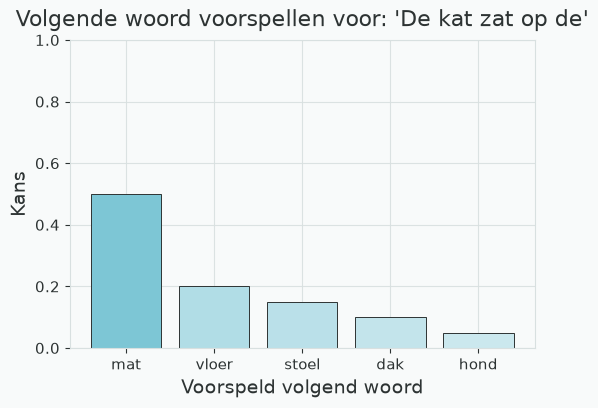
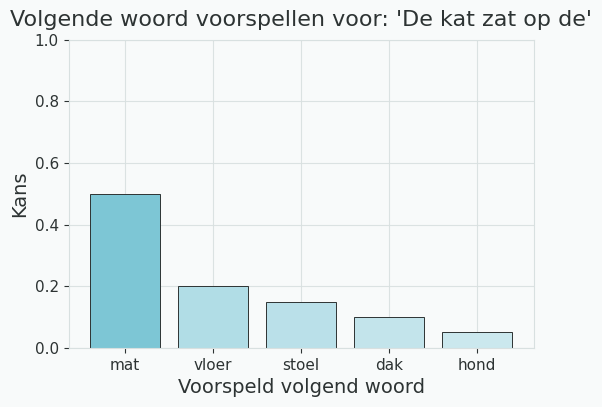
using own plot config

diff --git a/CCPlots/implementation/LinearRegressionExample.py b/CCPlots/implementation/LinearRegressionExample.py
@@ -1,27 +1,27 @@
+"""
+Animated linear regression fitting a line to house-size vs. price data.
+Data points are added one at a time, and the regression line updates
+dynamically.
+
+Figures
+-------
+- ``linear_regression_animation.gif`` / ``_NL.gif`` — animation
+
+Configuration
+-------------
+``CCPlots/plot_configs/linear_regression.json``
+"""
 import numpy as np
-import matplotlib.pyplot as plt
 from matplotlib.animation import FuncAnimation
 from sklearn.linear_model import LinearRegression
 
 from CCPlots.PlotExample import PlotExample
-from CCPlots.config import BITROOT_PALETTE, apply_bitroot_style, output_path
+from CCPlots.config import BITROOT_PALETTE, output_path
 
 
-TEXT_BY_LOCALE = {
-    "en": {
-        "title": "Linear Regression Example: House Size vs. Price",
-        "xlabel": "House Size (sq ft)",
-        "ylabel": "Price ($)",
-    },
-    "nl": {
-        "title": "Lineair regressievoorbeeld: huismaat vs. prijs",
-        "xlabel": "Huismaat (m\u00b2)",
-        "ylabel": "Prijs (\u20ac)",
-    },
-}
+class LinearRegression(PlotExample):
 
-
-class LinearRegressionExample(PlotExample):
+    CONFIG_KEY = "linear_regression"
 
     primary = BITROOT_PALETTE['primary']
 
@@ -34,11 +34,8 @@ class LinearRegressionExample(PlotExample):
         house_sizes = house_sizes[sorted_indices]
         prices = prices[sorted_indices]
 
-        for locale, labels in (("en", TEXT_BY_LOCALE["en"]), ("nl", TEXT_BY_LOCALE["nl"])):
-            fname = f"linear_regression_animation{'_NL' if locale == 'nl' else ''}.gif"
-
-            fig, ax = plt.subplots(facecolor=BITROOT_PALETTE['background'])
-            ax.set_facecolor(BITROOT_PALETTE['background'])
+        for _locale, labels, suffix in self.iter_locales():
+            fig, ax = self.create_figure()
             ax.set_xlim(min(house_sizes) - 100, max(house_sizes) + 100)
             ax.set_ylim(min(prices) - 10000, max(prices) + 10000)
             ax.set_title(labels["title"], fontsize=16, color=BITROOT_PALETTE['text'])
@@ -73,7 +70,8 @@ class LinearRegressionExample(PlotExample):
 
             ani = FuncAnimation(fig, update, frames=len(house_sizes), init_func=init, blit=True, interval=10)
 
-            apply_bitroot_style(ax)
+            self.apply_style(ax)
 
+            fname = self.config.resolve_output("animation", suffix=suffix)
             ani.save(output_path(fname), writer='pillow')
             plt.close(fig)
